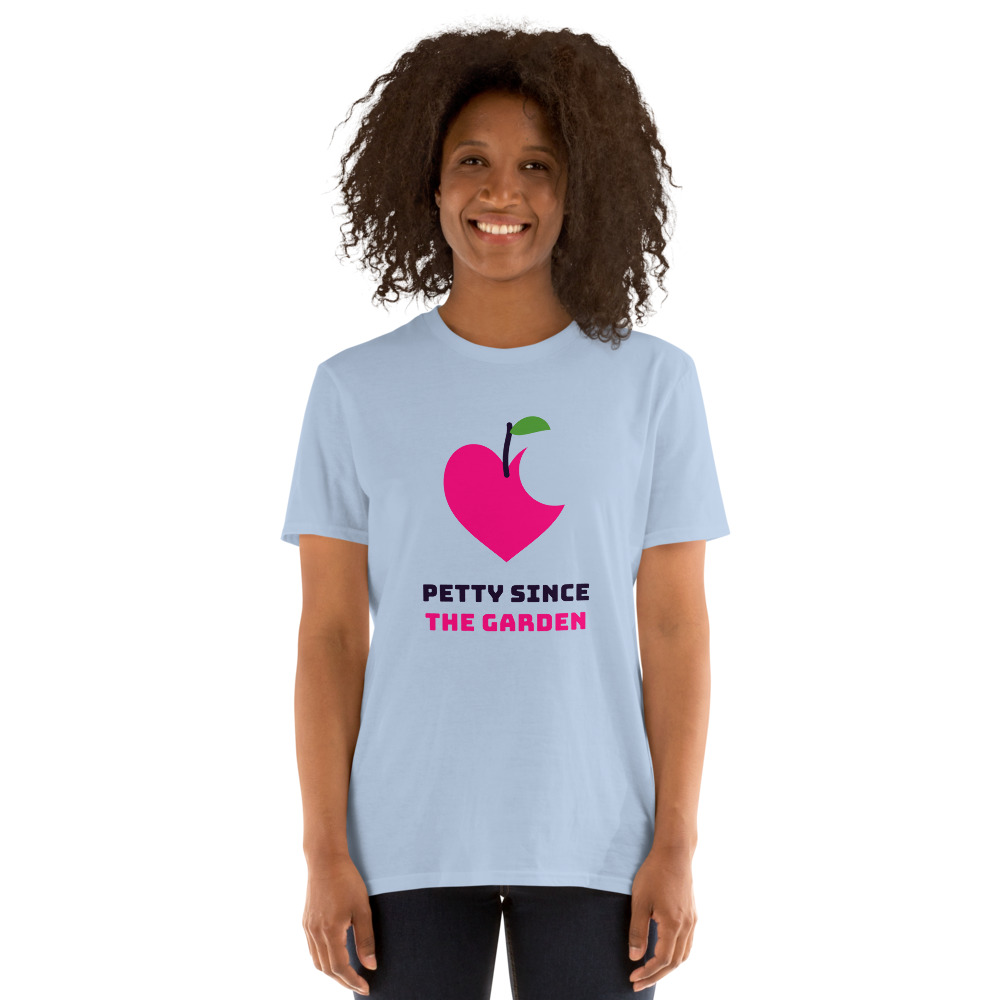
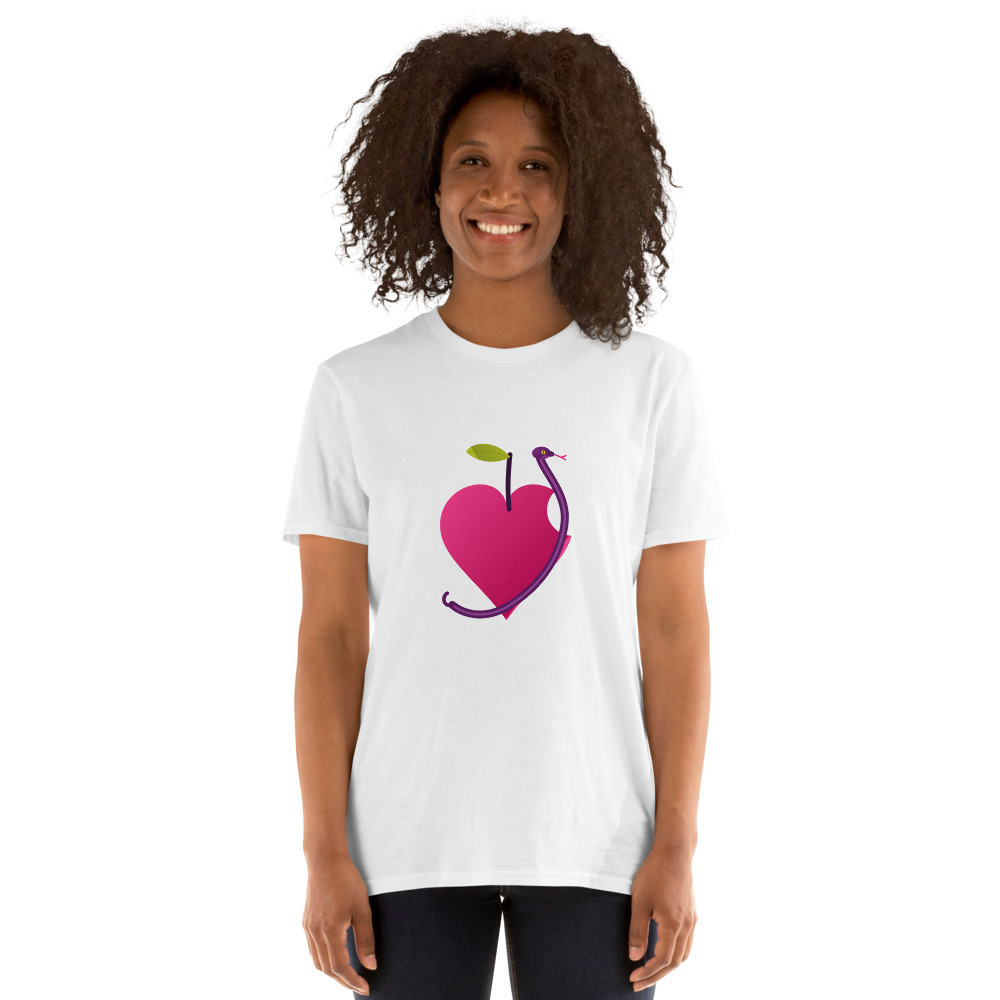
Retire "Petty Since the Garden" from the Bitten Heart tees
The p39/p45 print files still carried the retired slogan and the flat
cartoon apple -- both rejected. Swapped all 80 Printful sync variants
across the three Bitten Heart products to the new snake+heart mark, which
doubles as the logo-only tee that was wanted.

Printful rate-limits variant PUTs hard (429 after ~10), so the update
runs with retry-after backoff; verified afterwards that 80/80 variants
carry the new artwork and none retain the old.

Mockups regenerated. p39's blank exposes a different style-id set than
the value tees, so it uses Men's Lifestyle (744) and p45 Women's 2 --
grid audit still 0 same-row, 0 stacked. Copy updated: the mark is
snake-led now, not "the apple that started it all".

Changed region(s): [[0.279, 0.31, 0.744, 0.899]]

diff --git a/lib/products.js b/lib/products.js
@@ -1186,12 +1186,12 @@
         'Oxblood Black': 'https://files.cdn.printful.com/files/f92/f924ee8917f4afbd9c8b7aa0b7856d02_preview.png',
         'Dark Grey Heather': 'https://files.cdn.printful.com/files/564/56421fa0b29a8e236e946663483c2df5_preview.png',
       },
-      desc: 'The flagship. Our bitten heart-apple mascot, big and bold on the chest. The whole brand in one shirt — wear the origin story.',
+      desc: 'The flagship. Just the mark — a snake wound through a bitten heart, front and centre. No slogan, nothing to explain. The whole brand in one shirt.',
       features: [
         'Bella + Canvas 3001 — premium soft tee',
         '8 dark colors, S–2XL',
-        'Bold bitten-heart mascot front print',
-        'Our flagship — the apple that started it all',
+        'Snake + heart logo, clean centre-chest print',
+        'Our flagship — the mark that started it all',
       ],
     },
     {
@@ -1331,12 +1331,12 @@
         'Sport Grey': 'https://files.cdn.printful.com/files/47b/47b95cd40fef85ff79b6b64489105c00_preview.png',
         'Light Blue': 'https://files.cdn.printful.com/files/57f/57f0978dcaf422f0092e1f0e7ac5d1f8_preview.png',
       },
-      desc: 'Our flagship mascot, wallet-friendly. The bitten heart-apple mascot on a soft Gildan tee — same petty, smaller price.',
+      desc: 'The logo tee, wallet-friendly. Snake through a bitten heart on a soft Gildan tee — same mark, smaller price.',
       features: [
         'Gildan 64000 Softstyle — light + breathable',
         '5 dark colors, S–2XL',
         '$18 — group-order & bulk friendly',
-        'The flagship design, value blank',
+        'The flagship mark, value blank',
       ],
     },
     {
@@ -2399,7 +2399,7 @@
     p32: "Women's Lifestyle",
     p35: "Women's Lifestyle",
     p36: "Men's Lifestyle",
-    p39: "Men's 4",
+    p39: "Men's Lifestyle",
     p40: "Men's",
     p41: "Men's 2",
     p42: "Women's 1",
